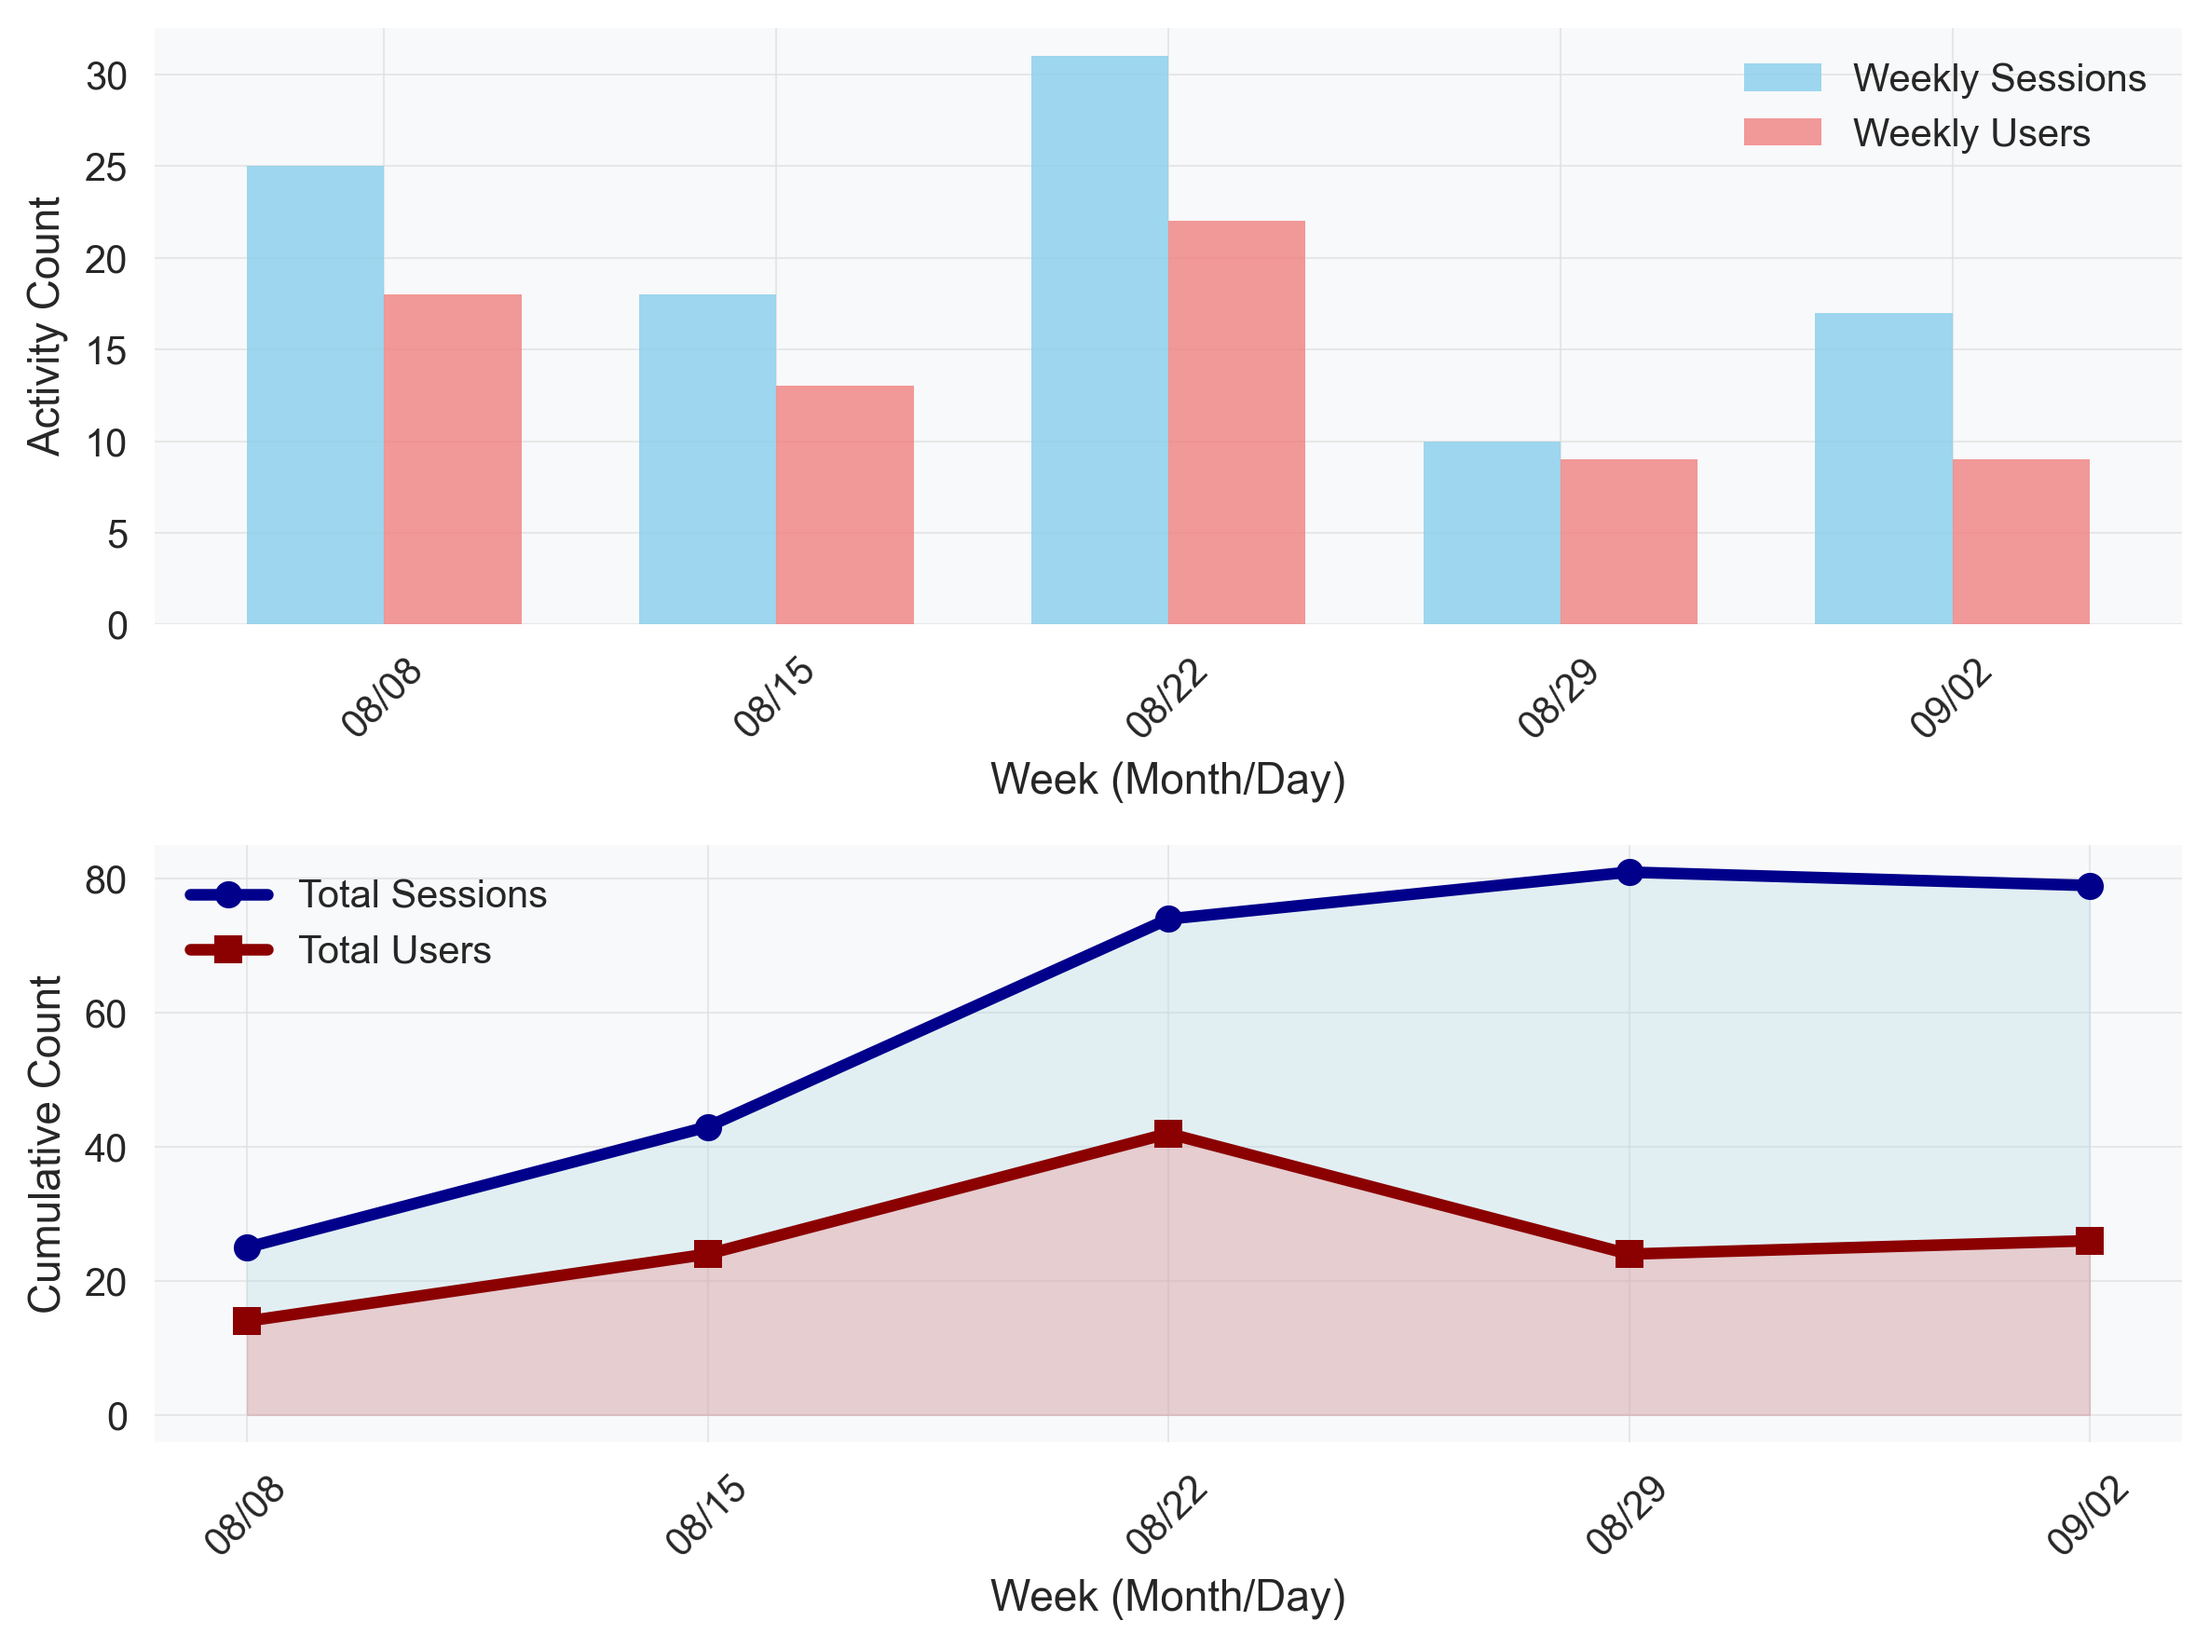
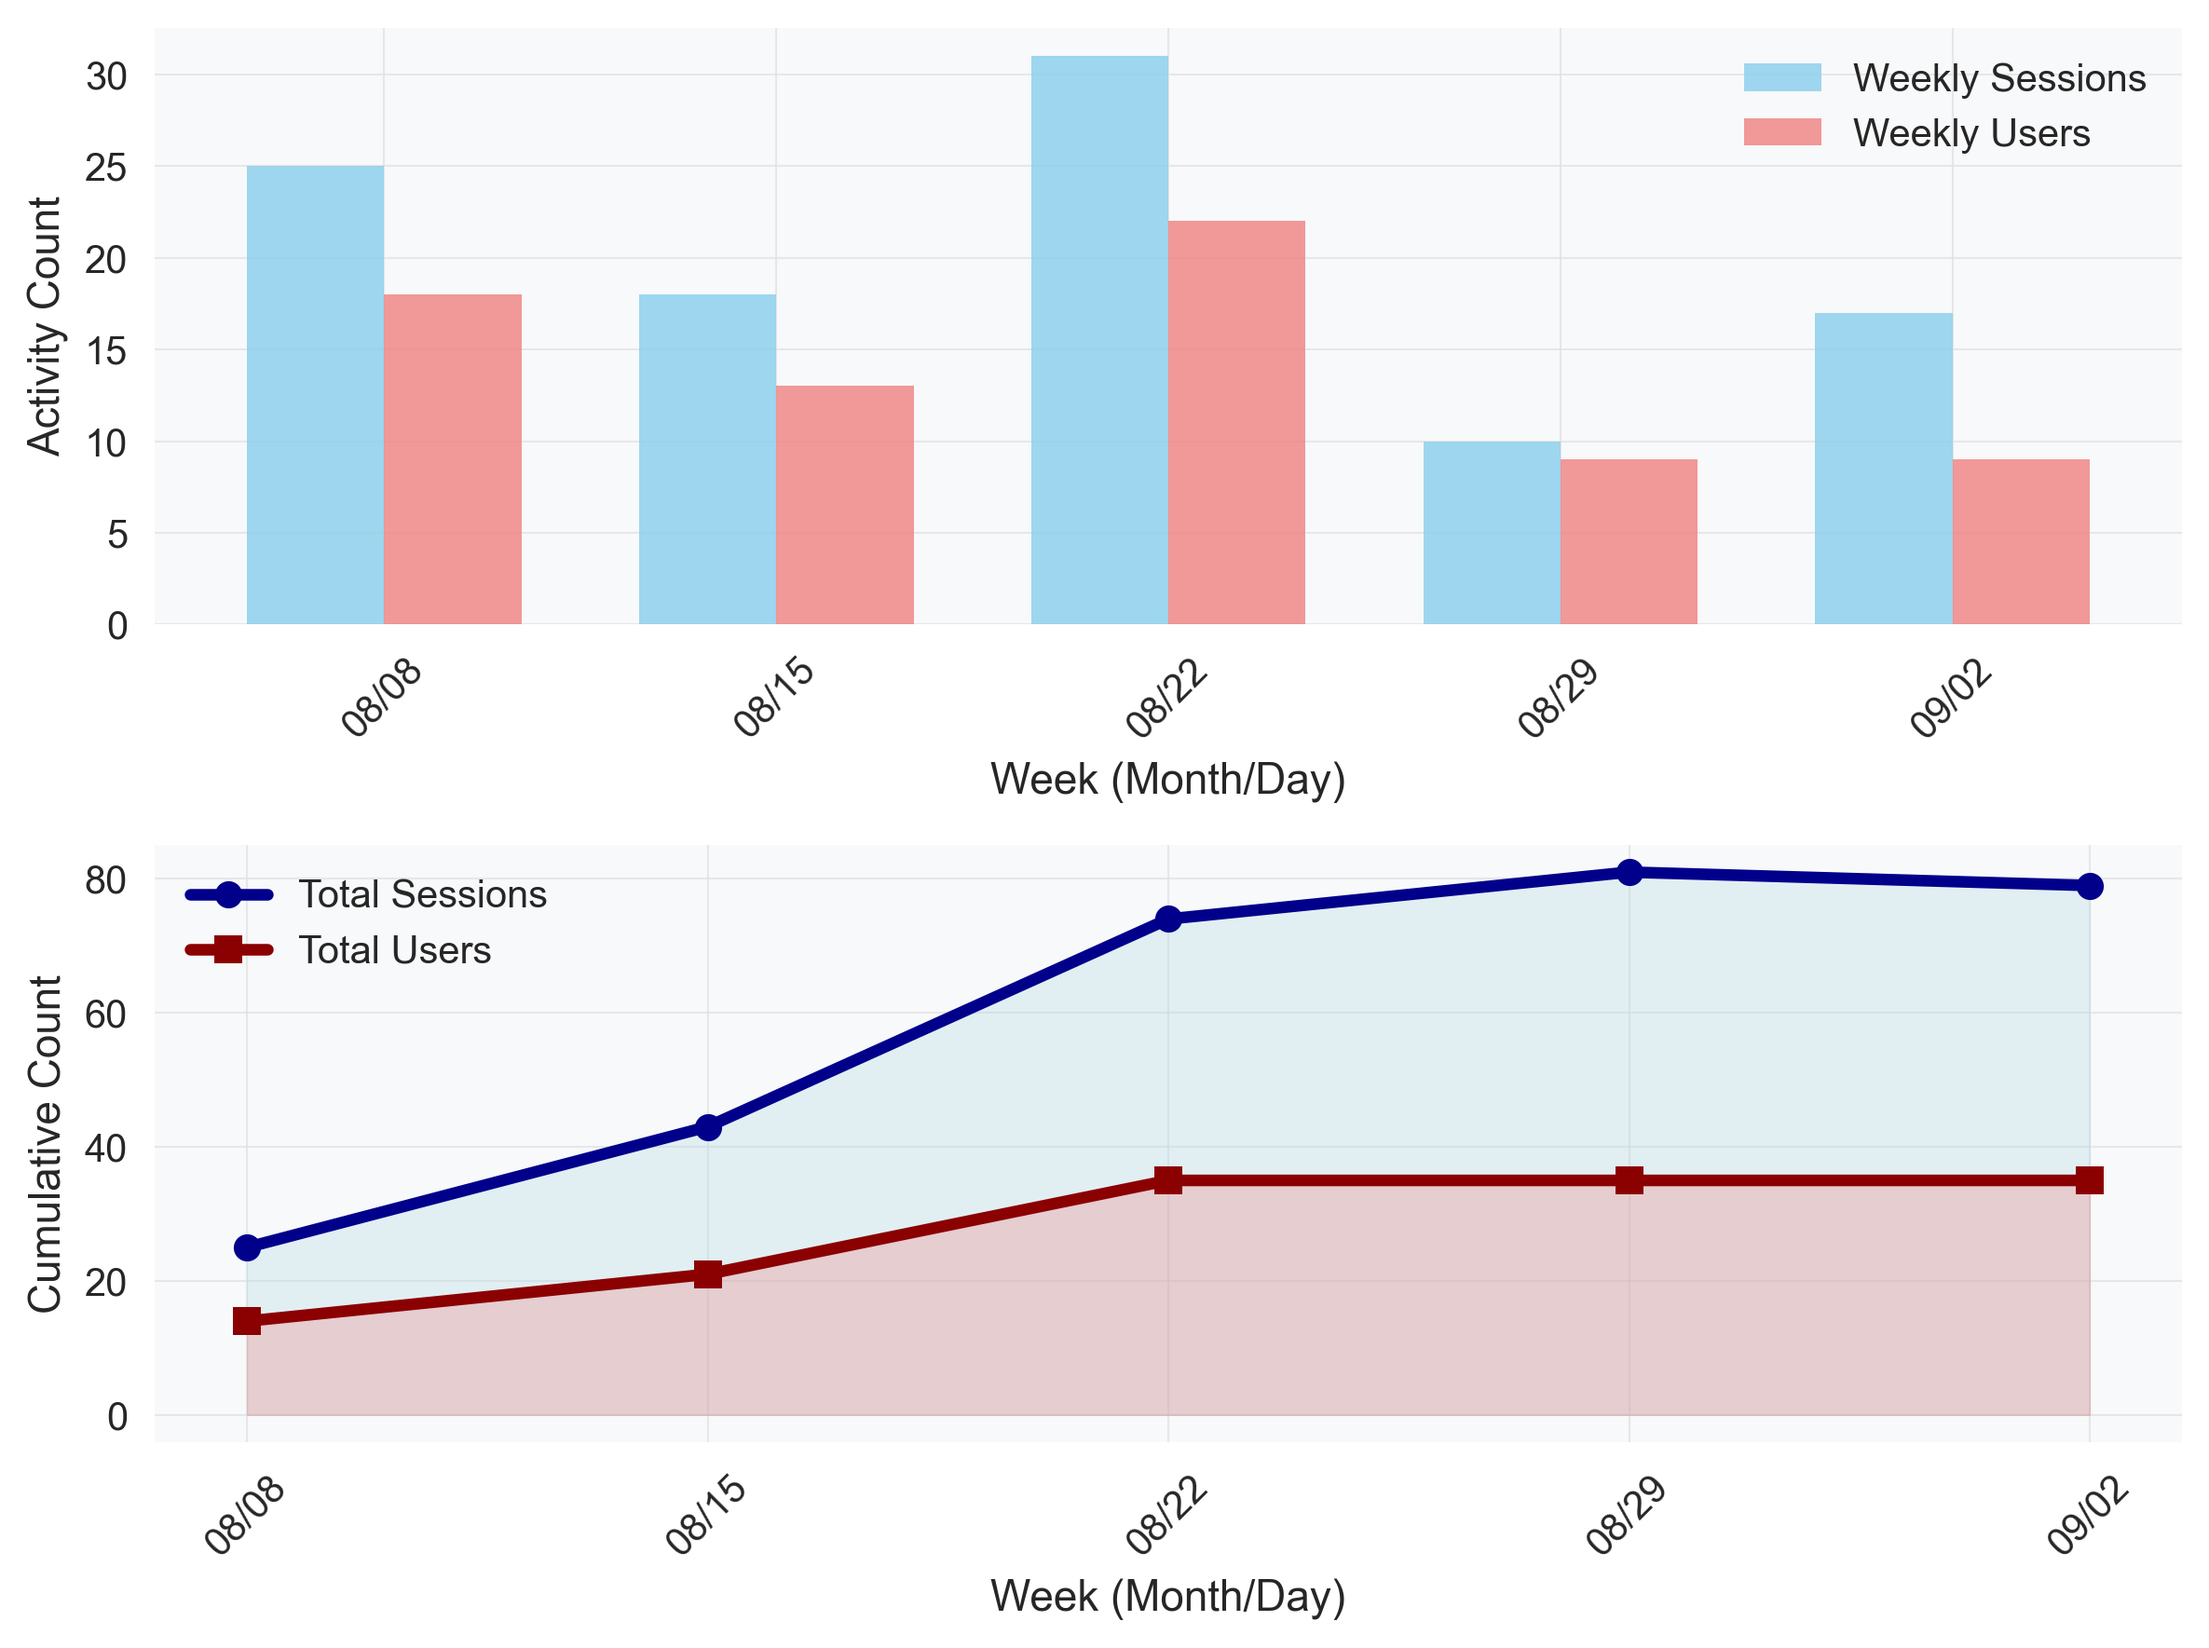
update on affiliate report and web analytics tracking

Changed region(s): [[0.1248, 0.684, 0.9675, 0.8084]]

diff --git a/source files/progress_Family_Species.html b/source files/progress_Family_Species.html
@@ -28,7 +28,7 @@
         align-items: center;
         gap: 2vh;
         padding-bottom: 1vh;
-        margin-top: 10vh;
+        margin-top: 5vh;
         width: 100vw;
         max-width: 100vw;
         box-sizing: border-box;
@@ -71,9 +71,9 @@
       /* Container for centering and styling */
       .select-container {
         display: flex;
-        justify-content: right;
+        justify-content: center;
         align-items: center;
-        margin: 0px 10px 0 0;  /* Changed from -30px to -20px to move it down */
+        margin: 10px 0 20px 0;  /* Centered below title with proper spacing */
         position: relative;
         z-index: 1;  /* Ensure it stays above other elements */
       }

diff --git a/web-analytics/analyze_weekly_trends.py b/web-analytics/analyze_weekly_trends.py
@@ -37,12 +37,29 @@ def load_weekly_analytics_data():
         weekly_df['sessions'].cumsum()
     )
     
-    # For users, use actual monthly totals to avoid double-counting returning visitors
-    # Use monthly_active_users when available, otherwise estimate based on weekly data
-    weekly_df['cumulative_users'] = weekly_df['monthly_active_users'].fillna(
-        # Fallback: rough estimate assuming 20% returning visitors
-        (weekly_df['total_users'].cumsum() * 0.8).astype(int)
-    )
+    # For users, create truly cumulative tracking
+    # Use monthly_active_users as the authoritative source when available,
+    # but ensure it's truly cumulative (only increases)
+    cumulative_users = []
+    max_users = 0
+    
+    for _, row in weekly_df.iterrows():
+        if pd.notna(row['monthly_active_users']):
+            # Use actual monthly active users from GA
+            current_users = int(row['monthly_active_users'])
+        else:
+            # Estimate based on new users (more conservative approach)
+            if not cumulative_users:
+                current_users = int(row['total_users'] * 0.8)  # Initial estimate
+            else:
+                # Add new users, assuming some retention
+                current_users = max_users + int(row['new_users'] * 0.9)
+        
+        # Ensure cumulative property (never decreases)
+        max_users = max(max_users, current_users)
+        cumulative_users.append(max_users)
+    
+    weekly_df['cumulative_users'] = cumulative_users
     
     weekly_df['cumulative_screen_page_views'] = weekly_df['screen_page_views'].cumsum()
     weekly_df['cumulative_custom_events'] = weekly_df['total_custom_events'].cumsum()
